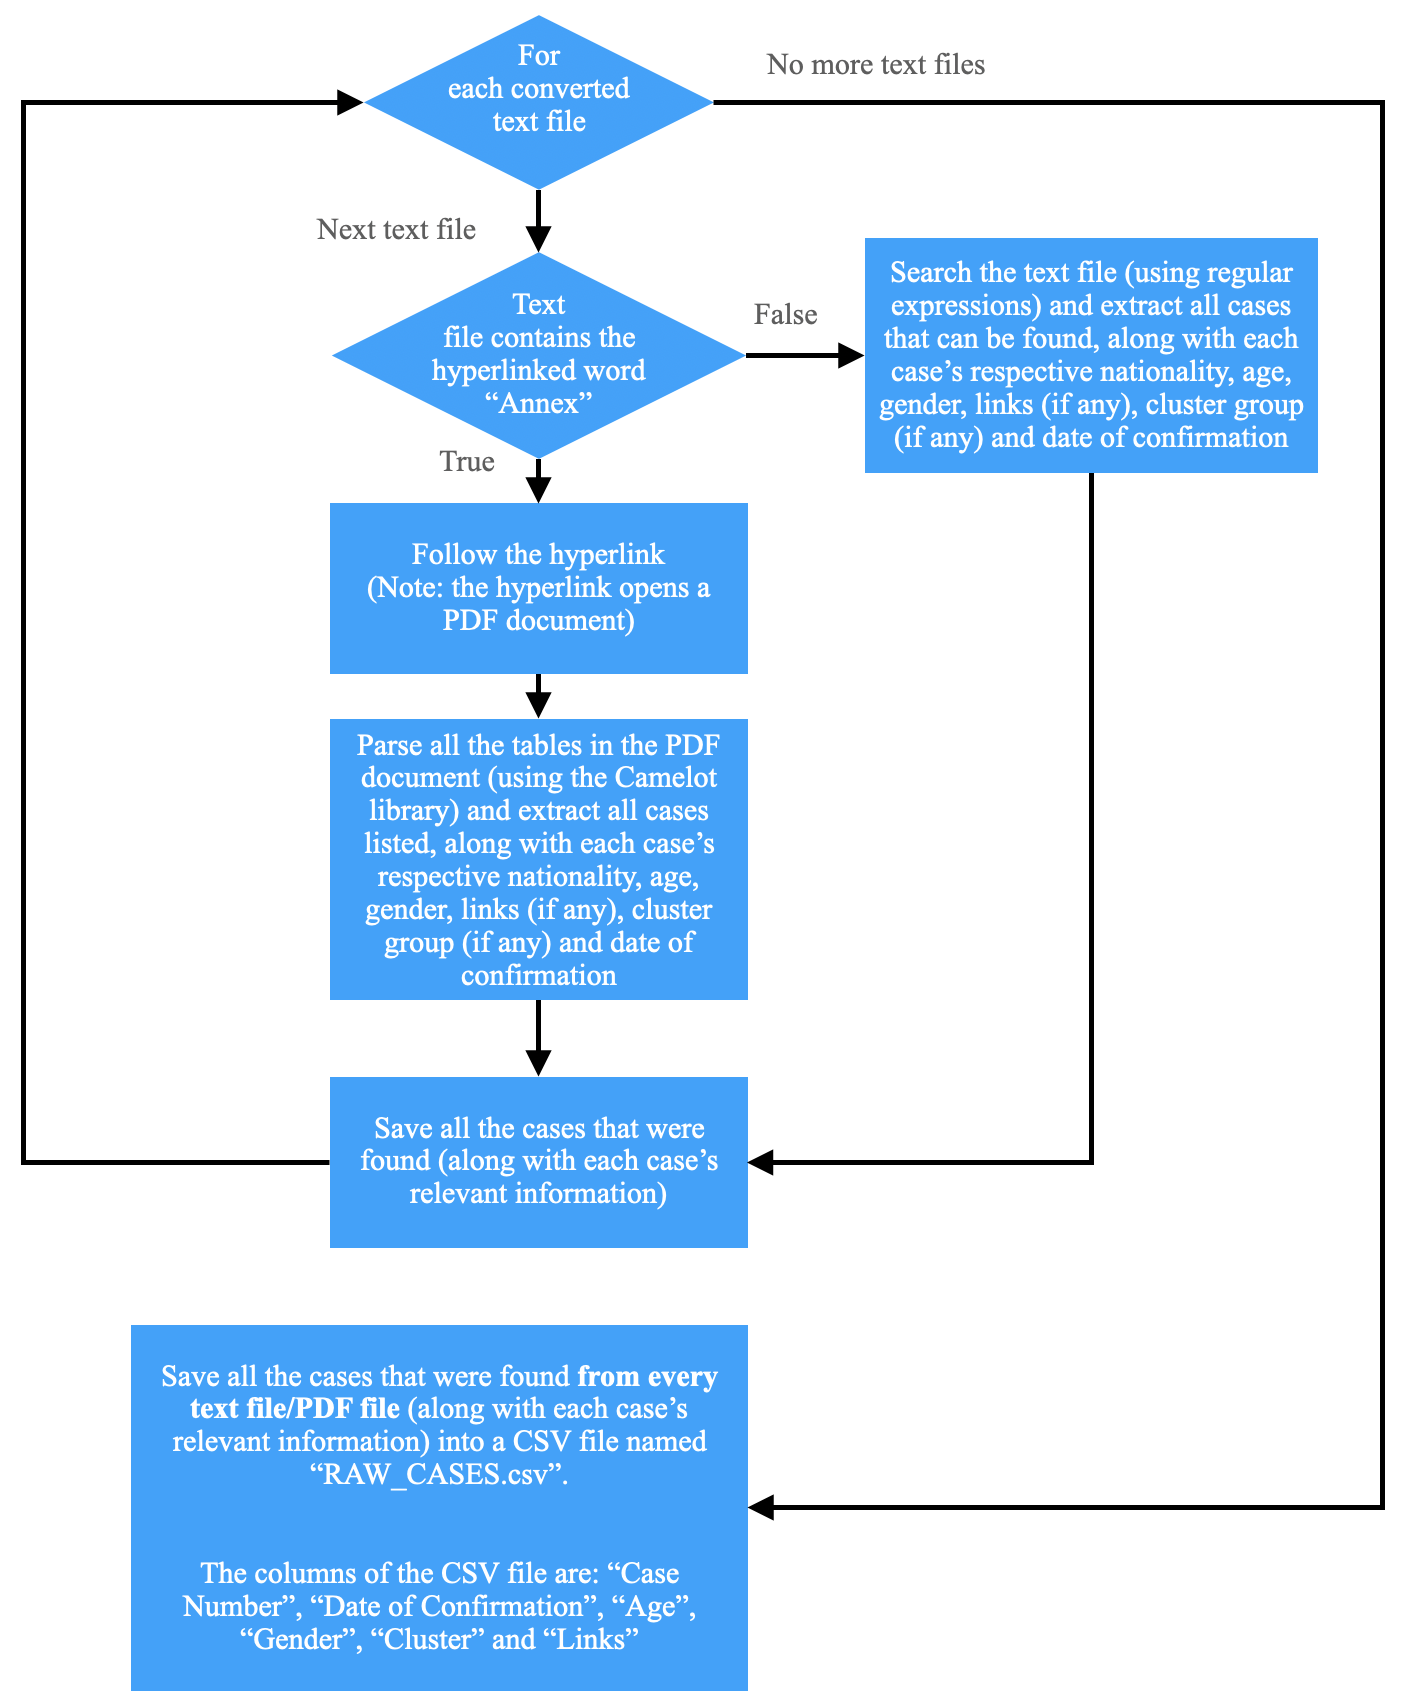
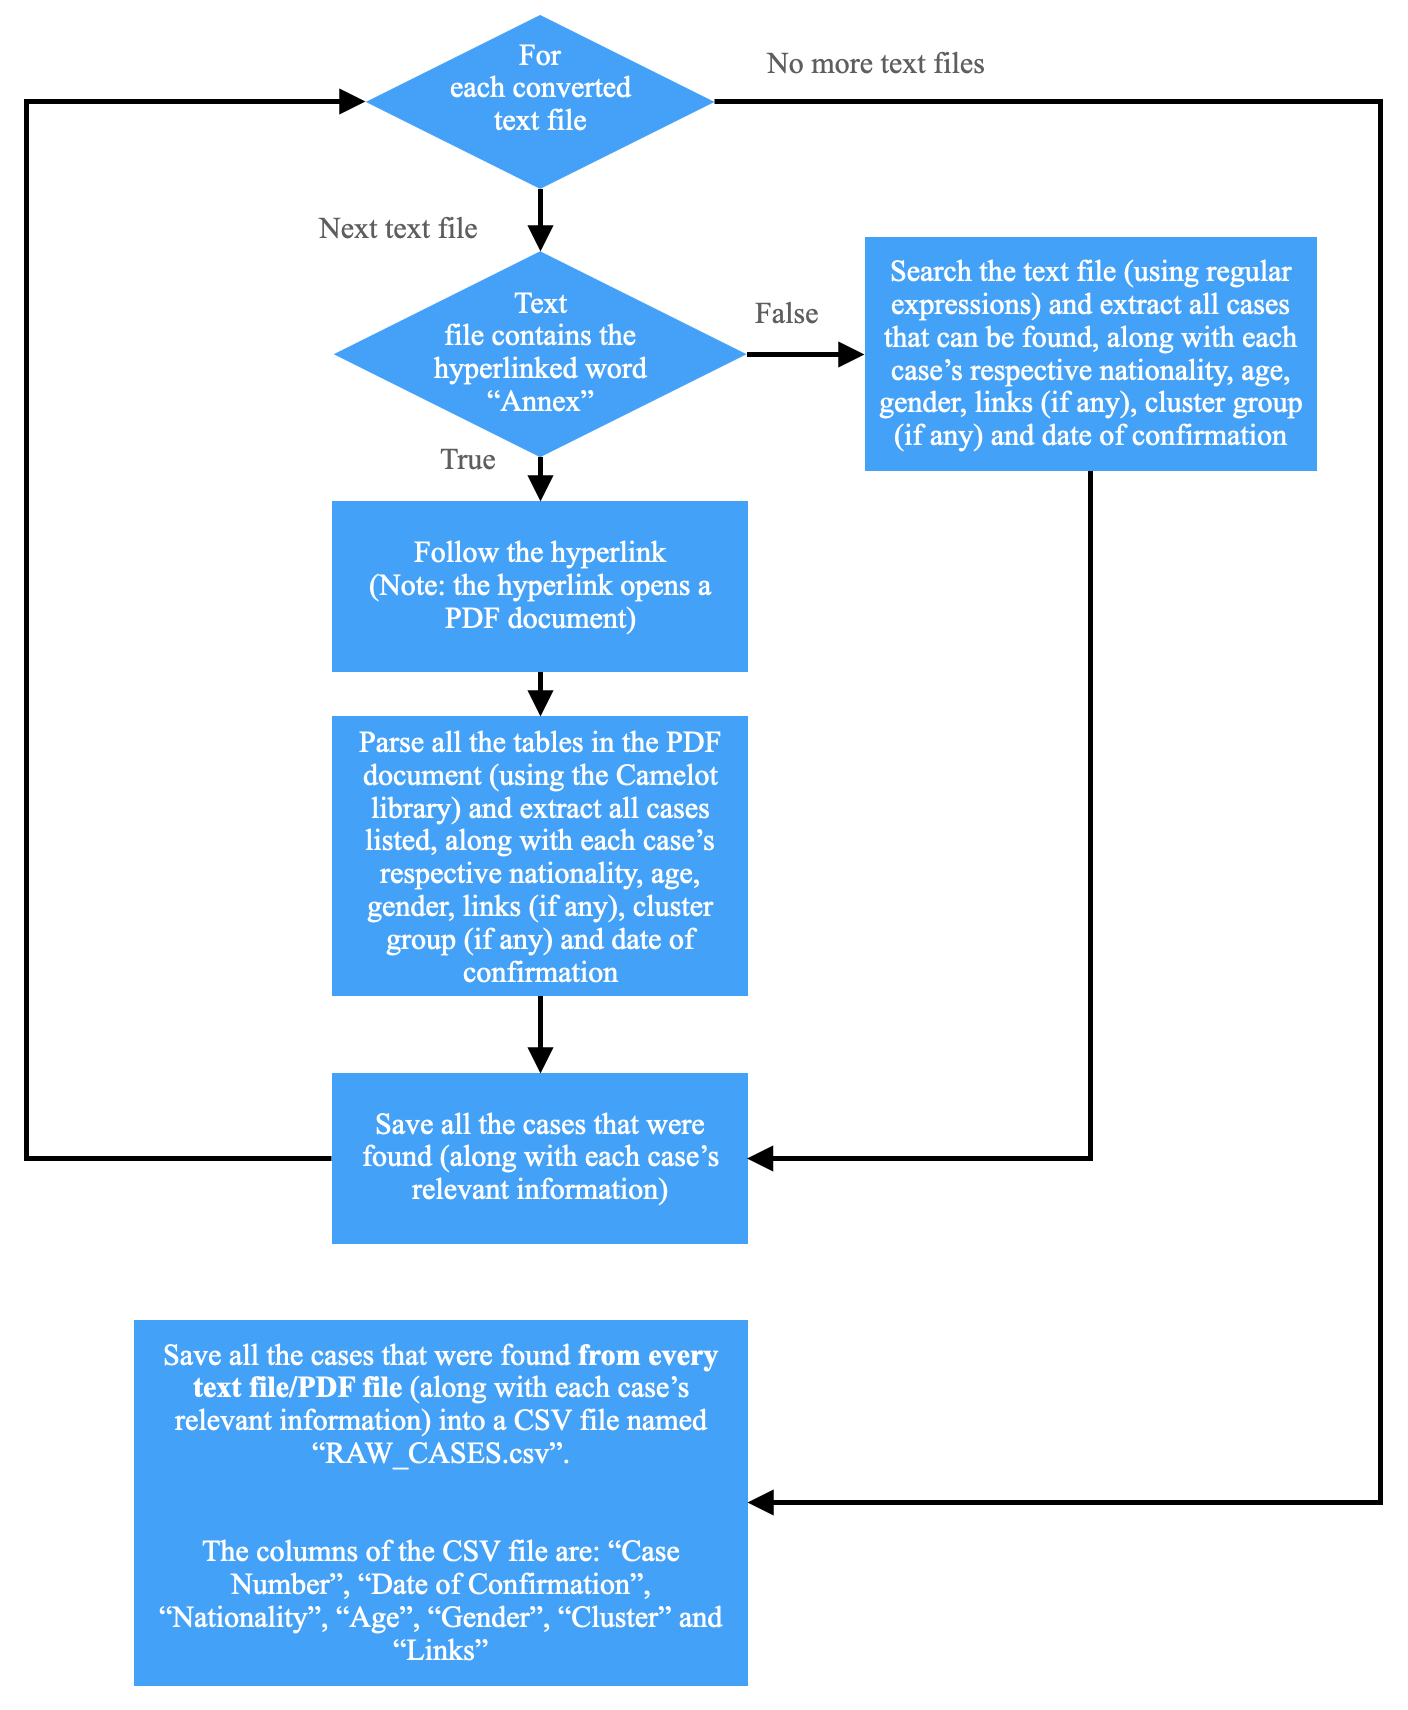
Updated README

diff --git a/README.md b/README.md
@@ -46,7 +46,7 @@ The project has many different sequential stages. Therefore, running each Python
 
 ![image](readme%20pictures/1.png)
 
-2. call_parser.py: Creates a Table from the downloaded text files. This table contains all relevant information about every published COVID-19 case (found in the Daily COVID-19 Press Release Reports) in Singapore; each row entry in the Table follows the following format: “Case Number”, “Date of Confirmation”, “Age”, “Gender”, “Cluster” and “Links” (all row entries must have a non-null “Case Number”)
+2. call_parser.py: Creates a Table from the downloaded text files. This table contains all relevant information about every published COVID-19 case (found in the Daily COVID-19 Press Release Reports) in Singapore; each row entry in the Table follows the following format: “Case Number”, “Date of Confirmation”, "Nationality", “Age”, “Gender”, “Cluster” and “Links” (all row entries must have a non-null “Case Number”)
 
 ![image](readme%20pictures/2.png)
 
